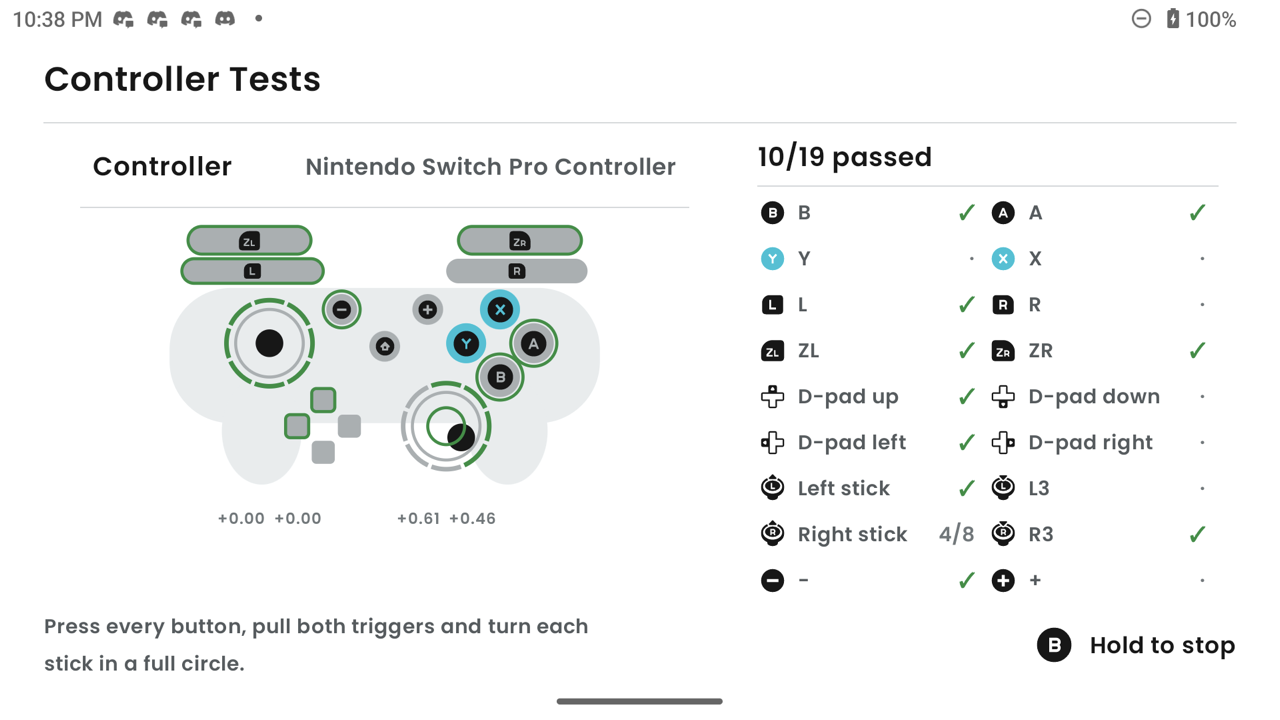
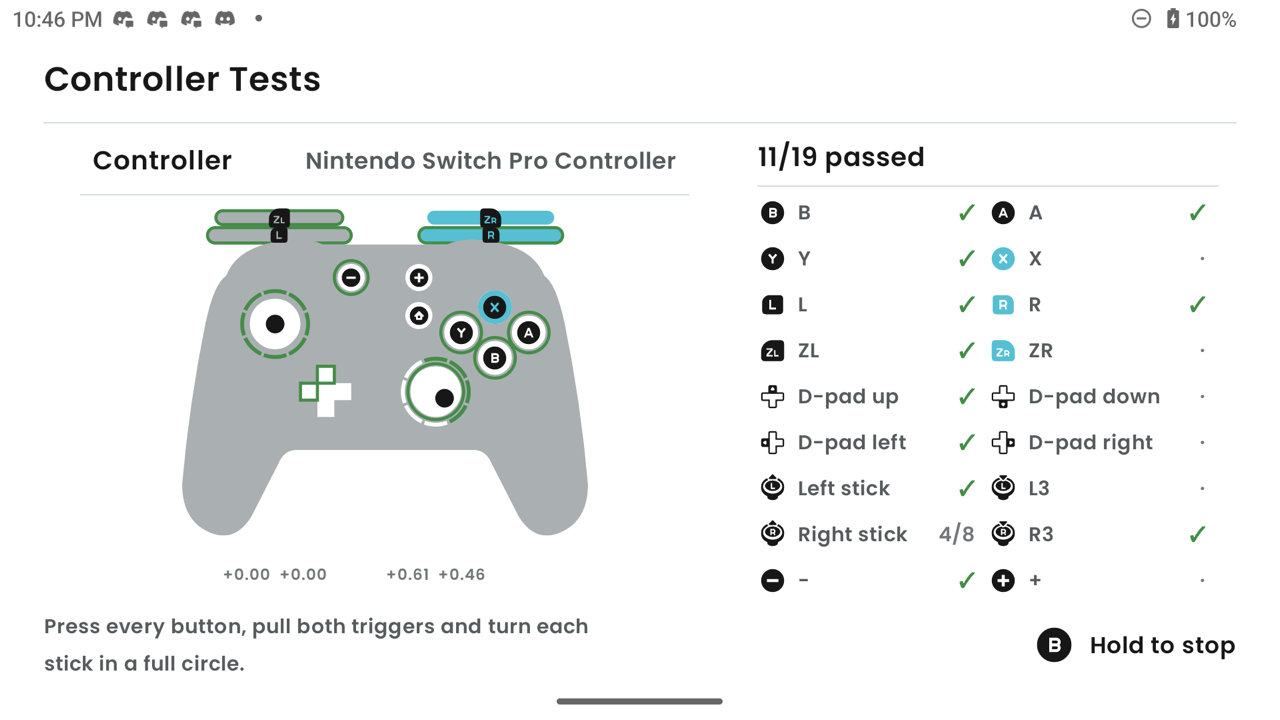
ui: draw the test pad as the Switch Pro silhouette
The hand-drawn body read as blobs. The diagram now scales up Kenney's Switch Pro silhouette (the pad tile's art) and draws the lit controls into its cut-outs, with the shoulders in a band above it.

diff --git a/android/app/src/main/java/com/controlswitch/ui/ControllerTestScreen.kt b/android/app/src/main/java/com/controlswitch/ui/ControllerTestScreen.kt
@@ -41,8 +41,9 @@ import androidx.compose.ui.geometry.CornerRadius
 import androidx.compose.ui.geometry.Offset
 import androidx.compose.ui.geometry.Size
 import androidx.compose.ui.graphics.Color
-import androidx.compose.ui.graphics.drawscope.DrawScope
 import androidx.compose.ui.graphics.drawscope.Stroke
+import androidx.compose.ui.graphics.drawscope.withTransform
+import androidx.compose.ui.graphics.vector.PathParser
 import androidx.compose.ui.input.InputMode
 import androidx.compose.ui.platform.LocalContext
 import androidx.compose.ui.platform.LocalInputModeManager
@@ -177,7 +178,7 @@ internal fun ControllerTestScreen(state: MirrorUiState, active: Boolean, onBack:
                 Column(Modifier.weight(1f), horizontalAlignment = Alignment.CenterHorizontally) {
                     MenuRow(
                         title = "Controller",
-                        minHeight = 52.dp,
+                        minHeight = 44.dp,
                         onClick = { start() },
                         onLeft = if (testing) null else ({ cycle(-1) }),
                         onRight = if (testing) null else ({ cycle(1) }),
@@ -285,12 +286,39 @@ private fun Checklist(test: PadTest, layout: PadLayout, builtIn: Boolean, modifi
     }
 }
 
-// The drawing: a Switch Pro-shaped pad in a 360 x 200 dp box. Shapes are drawn on a Canvas in that
-// coordinate space (one unit = one dp), and the button prompts sit on top as PadIcons.
-private const val W = 360f
-private const val H = 200f
+// The drawing: Kenney's Switch Pro silhouette (the same art as the pad tile), scaled up, with the
+// controls drawn into its cut-outs. Coordinates are the icon's own 64-unit grid, so a spot from
+// the SVG is a spot here; [S] is dp per unit and the shoulders sit in a band above the body.
+private const val S = 5.5f
+private const val SHOULDERS = 22f
+private const val PAD_LEFT = 8f
+private const val PAD_TOP = 14.6f
+private const val W = 48f * S
+private const val H = 35.5f * S + SHOULDERS
 
-private data class Spot(val x: Float, val y: Float)
+// Kenney Input Prompts 1.5 (CC0): Nintendo Switch 2/Vector/controller_switch_pro.svg.
+private const val PRO_PATH = "M51 25 Q51 24.15 50.4 23.55 49.85 23 49 23 48.15 23 47.6 23.55 47 24.15 47 25 47 25.8 47.6 26.4 48.15 27 49 27 49.85 27 50.4 26.4 51 25.8 51 25 M43 25 Q43 24.15 42.4 23.55 41.85 23 41 23 40.15 23 39.6 23.55 39 24.15 39 25 39 25.8 39.6 26.4 40.15 27 41 27 41.85 27 42.4 26.4 43 25.8 43 25 M47 22 Q47 21.15 46.4 20.55 45.85 20 45 20 44.15 20 43.6 20.55 43 21.15 43 22 43 22.8 43.6 23.4 44.15 24 45 24 45.85 24 46.4 23.4 47 22.8 47 22 M21.55 38.9 Q20.05 38.9 19.4 40.5 L16.2 46.75 Q14.4 49.7 11.65 48.8 8.05 47.55 8 43 8.85 33.25 10.8 23.75 11.8 19.2 13.2 18.3 14.3 15.45 18.05 14.5 22.25 13.45 24.7 14.6 L39.3 14.6 Q41.75 13.45 45.95 14.5 49.7 15.45 50.85 18.3 52.2 19.2 53.2 23.75 55.15 33.25 56 43 55.95 47.55 52.35 48.8 49.6 49.7 47.8 46.75 L44.6 40.5 Q43.95 38.9 42.45 38.9 L21.55 38.9 M24 29 L24 31 22 31 22 33 24 33 24 35 26 35 26 33 28 33 28 31 26 31 26 29 24 29 M41 32 Q41 30.75 40.1 29.85 39.25 29 38 29 36.75 29 35.85 29.85 35 30.75 35 32 35 33.2 35.85 34.05 36.75 35 38 35 39.25 35 40.1 34.05 41 33.2 41 32 M22 24 Q22 22.75 21.1 21.85 20.25 21 19 21 17.75 21 16.85 21.85 16 22.75 16 24 16 25.2 16.85 26.05 17.75 27 19 27 20.25 27 21.1 26.05 22 25.2 22 24 M47 28 Q47 27.15 46.4 26.55 45.85 26 45 26 44.15 26 43.6 26.55 43 27.15 43 28 43 28.8 43.6 29.4 44.15 30 45 30 45.85 30 46.4 29.4 47 28.8 47 28"
+
+/** A point on the icon's grid. */
+private data class Spot(val x: Float, val y: Float) {
+    val dx: Float get() = (x - PAD_LEFT) * S
+    val dy: Float get() = (y - PAD_TOP) * S + SHOULDERS
+}
+
+// The silhouette's cut-outs.
+private val SOUTH = Spot(45f, 28f)
+private val EAST = Spot(49f, 25f)
+private val NORTH = Spot(45f, 22f)
+private val WEST = Spot(41f, 25f)
+private val LEFT_STICK = Spot(19f, 24f)
+private val RIGHT_STICK = Spot(38f, 32f)
+private val DPAD = Spot(25f, 32f)
+// Not in the silhouette, placed where the Pro has them: − and + flanking the top, Capture under −,
+// Home under +.
+private val MINUS = Spot(28f, 18.5f)
+private val PLUS = Spot(36f, 18.5f)
+private val HOME = Spot(36f, 23f)
+private val READOUT_Y = 52.5f
 
 @Composable
 private fun PadDiagram(test: PadTest, layout: PadLayout, builtIn: Boolean, dim: Boolean) {
@@ -303,80 +331,95 @@ private fun PadDiagram(test: PadTest, layout: PadLayout, builtIn: Boolean, dim: 
         else -> if (nintendo) WEST else NORTH
     }
     val faces = listOf(SlotIcon.A, SlotIcon.B, SlotIcon.X, SlotIcon.Y).map { it to at(faceLabel(it, layout, builtIn)) }
-    val idle = Palette.borderStrong
-    val body = Palette.surfaceRaised
-    val ink = Palette.textPrimary
+    val body = Palette.borderStrong
+    val hole = Palette.screen
     val good = Palette.custom
-    val tint = if (dim) Palette.textMuted else ink
+    val tint = if (dim) Palette.textMuted else Palette.textPrimary
     val showHome = SlotIcon.HOME in test.items || (test.items.isEmpty() && !builtIn)
+    val silhouette = remember { PathParser().parsePathString(PRO_PATH).toPath() }
 
     Box(Modifier.size(W.dp, H.dp)) {
         Canvas(Modifier.fillMaxSize()) {
             val u = size.width / W
-            fun fill(icon: SlotIcon) = if (test.lit(icon)) Teal else idle
-            fun DrawScope.passRing(icon: SlotIcon, center: Spot, radius: Float) {
-                if (test.passed(icon)) drawCircle(good, radius * u, Offset(center.x * u, center.y * u), style = Stroke(2f * u))
+            fun Spot.px() = Offset(dx * u, dy * u)
+            fun fill(icon: SlotIcon) = if (test.lit(icon)) Teal else hole
+            fun passRing(icon: SlotIcon, center: Spot, radius: Float) {
+                if (test.passed(icon)) drawCircle(good, radius * u, center.px(), style = Stroke(2f * u))
             }
-            // Body and grips.
-            drawRoundRect(body, Offset(40f * u, 42f * u), Size(280f * u, 88f * u), CornerRadius(40f * u))
-            drawOval(body, Offset(74f * u, 100f * u), Size(52f * u, 70f * u))
-            drawOval(body, Offset(234f * u, 100f * u), Size(52f * u, 70f * u))
-            // Triggers: the bar fills with the pull. Bumpers: lit while held.
+            // Shoulders: a bar each for ZL/ZR (filling with the pull) and L/R, above the body.
             for ((icon, x, value) in listOf(
-                Triple(SlotIcon.LEFT_TRIGGER, 52f, test.leftTrigger), Triple(SlotIcon.RIGHT_TRIGGER, 228f, test.rightTrigger),
+                Triple(SlotIcon.LEFT_TRIGGER, 12f, test.leftTrigger), Triple(SlotIcon.RIGHT_TRIGGER, 37f, test.rightTrigger),
             )) {
-                drawRoundRect(idle, Offset(x * u, 2f * u), Size(80f * u, 18f * u), CornerRadius(9f * u))
-                if (value > 0f) drawRoundRect(Teal, Offset(x * u, 2f * u), Size(80f * value * u, 18f * u), CornerRadius(9f * u))
-                if (test.passed(icon)) drawRoundRect(good, Offset(x * u, 2f * u), Size(80f * u, 18f * u), CornerRadius(9f * u), style = Stroke(2f * u))
+                val at = Offset((x - PAD_LEFT) * S * u, 0f)
+                val sz = Size(15f * S * u, 9f * u)
+                drawRoundRect(if (test.lit(icon)) Teal else body, at, sz, CornerRadius(4.5f * u))
+                if (value > 0f) drawRoundRect(Teal, at, sz.copy(width = sz.width * value), CornerRadius(4.5f * u))
+                if (test.passed(icon)) drawRoundRect(good, at, sz, CornerRadius(4.5f * u), style = Stroke(2f * u))
             }
-            for ((icon, x) in listOf(SlotIcon.LEFT_BUMPER to 48f, SlotIcon.RIGHT_BUMPER to 220f)) {
-                drawRoundRect(fill(icon), Offset(x * u, 23f * u), Size(92f * u, 16f * u), CornerRadius(8f * u))
-                if (test.passed(icon)) drawRoundRect(good, Offset(x * u, 23f * u), Size(92f * u, 16f * u), CornerRadius(8f * u), style = Stroke(2f * u))
+            for ((icon, x) in listOf(SlotIcon.LEFT_BUMPER to 11f, SlotIcon.RIGHT_BUMPER to 36f)) {
+                val at = Offset((x - PAD_LEFT) * S * u, 11f * u)
+                val sz = Size(17f * S * u, 10f * u)
+                drawRoundRect(if (test.lit(icon)) Teal else body, at, sz, CornerRadius(5f * u))
+                if (test.passed(icon)) drawRoundRect(good, at, sz, CornerRadius(5f * u), style = Stroke(2f * u))
             }
-            // Sticks: eight arc segments go green as the stick reaches them, the dot follows the stick.
+            // The body, with the lit controls showing through its cut-outs.
             for ((stick, center, click) in listOf(
                 Triple(test.left, LEFT_STICK, SlotIcon.LEFT_STICK_CLICK), Triple(test.right, RIGHT_STICK, SlotIcon.RIGHT_STICK_CLICK),
             )) {
-                val c = Offset(center.x * u, center.y * u)
+                drawCircle(if (test.lit(click)) Teal else hole, 3f * S * u, center.px())
+            }
+            for ((icon, dx, dy) in listOf(
+                Triple(SlotIcon.DPAD_UP, 0f, -2f), Triple(SlotIcon.DPAD_DOWN, 0f, 2f),
+                Triple(SlotIcon.DPAD_LEFT, -2f, 0f), Triple(SlotIcon.DPAD_RIGHT, 2f, 0f),
+            )) {
+                val c = Spot(DPAD.x + dx, DPAD.y + dy).px()
+                drawRect(fill(icon), c - Offset(S * u, S * u), Size(2f * S * u, 2f * S * u))
+            }
+            drawRect(hole, Spot(DPAD.x - 1f, DPAD.y - 1f).px(), Size(2f * S * u, 2f * S * u))
+            for ((icon, spot) in faces) drawCircle(fill(icon), 2f * S * u, spot.px())
+            withTransform({
+                translate(-PAD_LEFT * S * u, (SHOULDERS - PAD_TOP * S) * u)
+                scale(S * u, S * u, pivot = Offset.Zero)
+            }) { drawPath(silhouette, body) }
+            // On top of the body: stick rings and dots, −/+/Home, pass rings.
+            for ((stick, center, click) in listOf(
+                Triple(test.left, LEFT_STICK, SlotIcon.LEFT_STICK_CLICK), Triple(test.right, RIGHT_STICK, SlotIcon.RIGHT_STICK_CLICK),
+            )) {
+                val c = center.px()
                 for (i in 0 until 8) {
                     val hit = stick.octants and (1 shl i) != 0
                     drawArc(
-                        if (hit) good else idle, startAngle = i * 45f - 20f, sweepAngle = 40f, useCenter = false,
-                        topLeft = c - Offset(28f * u, 28f * u), size = Size(56f * u, 56f * u), style = Stroke(3f * u),
+                        if (hit) good else hole, startAngle = i * 45f - 20f, sweepAngle = 40f, useCenter = false,
+                        topLeft = c - Offset(3.9f * S * u, 3.9f * S * u), size = Size(7.8f * S * u, 7.8f * S * u), style = Stroke(2.5f * u),
                     )
                 }
-                drawCircle(if (test.lit(click)) Teal else idle, 22f * u, c, style = Stroke(2f * u))
-                drawCircle(if (test.lit(click)) Teal else tint, 9f * u, c + Offset(stick.x * 16f * u, stick.y * 16f * u))
-                passRing(click, center, 12f)
+                drawCircle(if (test.lit(click)) Teal else tint, 1.1f * S * u, c + Offset(stick.x * 1.7f * S * u, stick.y * 1.7f * S * u))
+                passRing(click, center, 3.3f * S)
             }
-            // D-pad.
             for ((icon, dx, dy) in listOf(
-                Triple(SlotIcon.DPAD_UP, 0f, -17f), Triple(SlotIcon.DPAD_DOWN, 0f, 17f),
-                Triple(SlotIcon.DPAD_LEFT, -17f, 0f), Triple(SlotIcon.DPAD_RIGHT, 17f, 0f),
+                Triple(SlotIcon.DPAD_UP, 0f, -2f), Triple(SlotIcon.DPAD_DOWN, 0f, 2f),
+                Triple(SlotIcon.DPAD_LEFT, -2f, 0f), Triple(SlotIcon.DPAD_RIGHT, 2f, 0f),
             )) {
-                val topLeft = Offset((DPAD.x + dx - 7.5f) * u, (DPAD.y + dy - 7.5f) * u)
-                drawRoundRect(fill(icon), topLeft, Size(15f * u, 15f * u), CornerRadius(3f * u))
-                if (test.passed(icon)) drawRoundRect(good, topLeft, Size(15f * u, 15f * u), CornerRadius(3f * u), style = Stroke(2f * u))
+                if (test.passed(icon)) {
+                    val c = Spot(DPAD.x + dx, DPAD.y + dy).px()
+                    drawRect(good, c - Offset(S * u, S * u), Size(2f * S * u, 2f * S * u), style = Stroke(2f * u))
+                }
             }
-            // Face halos, −/+, Home: the prompts sit on top.
-            for ((icon, spot) in faces) {
-                drawCircle(fill(icon), 13f * u, Offset(spot.x * u, spot.y * u))
-                passRing(icon, spot, 15f)
-            }
+            for ((icon, spot) in faces) passRing(icon, spot, 2.4f * S)
             for ((icon, spot) in listOf(SlotIcon.VIEW to MINUS, SlotIcon.MENU to PLUS)) {
-                drawCircle(fill(icon), 10f * u, Offset(spot.x * u, spot.y * u))
-                passRing(icon, spot, 12f)
+                drawCircle(fill(icon), 1.6f * S * u, spot.px())
+                passRing(icon, spot, 2f * S)
             }
             if (showHome) {
-                drawCircle(fill(SlotIcon.HOME), 10f * u, Offset(HOME.x * u, HOME.y * u))
-                passRing(SlotIcon.HOME, HOME, 12f)
+                drawCircle(fill(SlotIcon.HOME), 1.6f * S * u, HOME.px())
+                passRing(SlotIcon.HOME, HOME, 2f * S)
             }
         }
-        for ((icon, spot) in faces) Prompt(faceLabel(icon, layout, builtIn), spot, 22.dp, tint)
-        Prompt(SlotIcon.LEFT_TRIGGER, Spot(92f, 11f), 18.dp, tint)
-        Prompt(SlotIcon.RIGHT_TRIGGER, Spot(268f, 11f), 18.dp, tint)
-        Prompt(SlotIcon.LEFT_BUMPER, Spot(94f, 31f), 16.dp, tint)
-        Prompt(SlotIcon.RIGHT_BUMPER, Spot(266f, 31f), 16.dp, tint)
+        for ((icon, spot) in faces) Prompt(faceLabel(icon, layout, builtIn), spot, (3.6f * S).dp, tint)
+        Prompt(SlotIcon.LEFT_TRIGGER, Spot(19.5f, PAD_TOP - SHOULDERS / S + 4.5f / S), 18.dp, tint)
+        Prompt(SlotIcon.RIGHT_TRIGGER, Spot(44.5f, PAD_TOP - SHOULDERS / S + 4.5f / S), 18.dp, tint)
+        Prompt(SlotIcon.LEFT_BUMPER, Spot(19.5f, PAD_TOP - SHOULDERS / S + 16f / S), 16.dp, tint)
+        Prompt(SlotIcon.RIGHT_BUMPER, Spot(44.5f, PAD_TOP - SHOULDERS / S + 16f / S), 16.dp, tint)
         Prompt(SlotIcon.VIEW, MINUS, 16.dp, tint)
         Prompt(SlotIcon.MENU, PLUS, 16.dp, tint)
         if (showHome) Prompt(SlotIcon.HOME, HOME, 16.dp, tint)
@@ -385,28 +428,15 @@ private fun PadDiagram(test: PadTest, layout: PadLayout, builtIn: Boolean, dim: 
     }
 }
 
-private val SOUTH = Spot(255f, 100f)
-private val EAST = Spot(277f, 78f)
-private val NORTH = Spot(255f, 56f)
-private val WEST = Spot(233f, 78f)
-private val LEFT_STICK = Spot(105f, 78f)
-private val RIGHT_STICK = Spot(220f, 132f)
-private val DPAD = Spot(140f, 132f)
-private val MINUS = Spot(152f, 56f)
-private val PLUS = Spot(208f, 56f)
-private val HOME = Spot(180f, 80f)
-// Both stick readouts on one line under the grips, clear of the D-pad.
-private const val READOUT_Y = 186f
-
 /** A prompt icon centred on [spot] of the drawing. */
 @Composable
 private fun Prompt(icon: SlotIcon, spot: Spot, size: Dp, tint: Color) {
-    Box(Modifier.offset(spot.x.dp - size / 2, spot.y.dp - size / 2)) { PadIcon(icon, size, tint) }
+    Box(Modifier.offset(spot.dx.dp - size / 2, spot.dy.dp - size / 2)) { PadIcon(icon, size, tint) }
 }
 
 @Composable
 private fun StickReadout(stick: StickState, spot: Spot) {
-    Box(Modifier.offset(spot.x.dp - 40.dp, spot.y.dp - 6.dp).width(80.dp), contentAlignment = Alignment.Center) {
+    Box(Modifier.offset(spot.dx.dp - 40.dp, spot.dy.dp - 6.dp).width(80.dp), contentAlignment = Alignment.Center) {
         Text(String.format(Locale.ROOT, "%+.2f  %+.2f", stick.x, stick.y), color = Palette.textMuted, fontSize = 10.sp, maxLines = 1)
     }
 }
